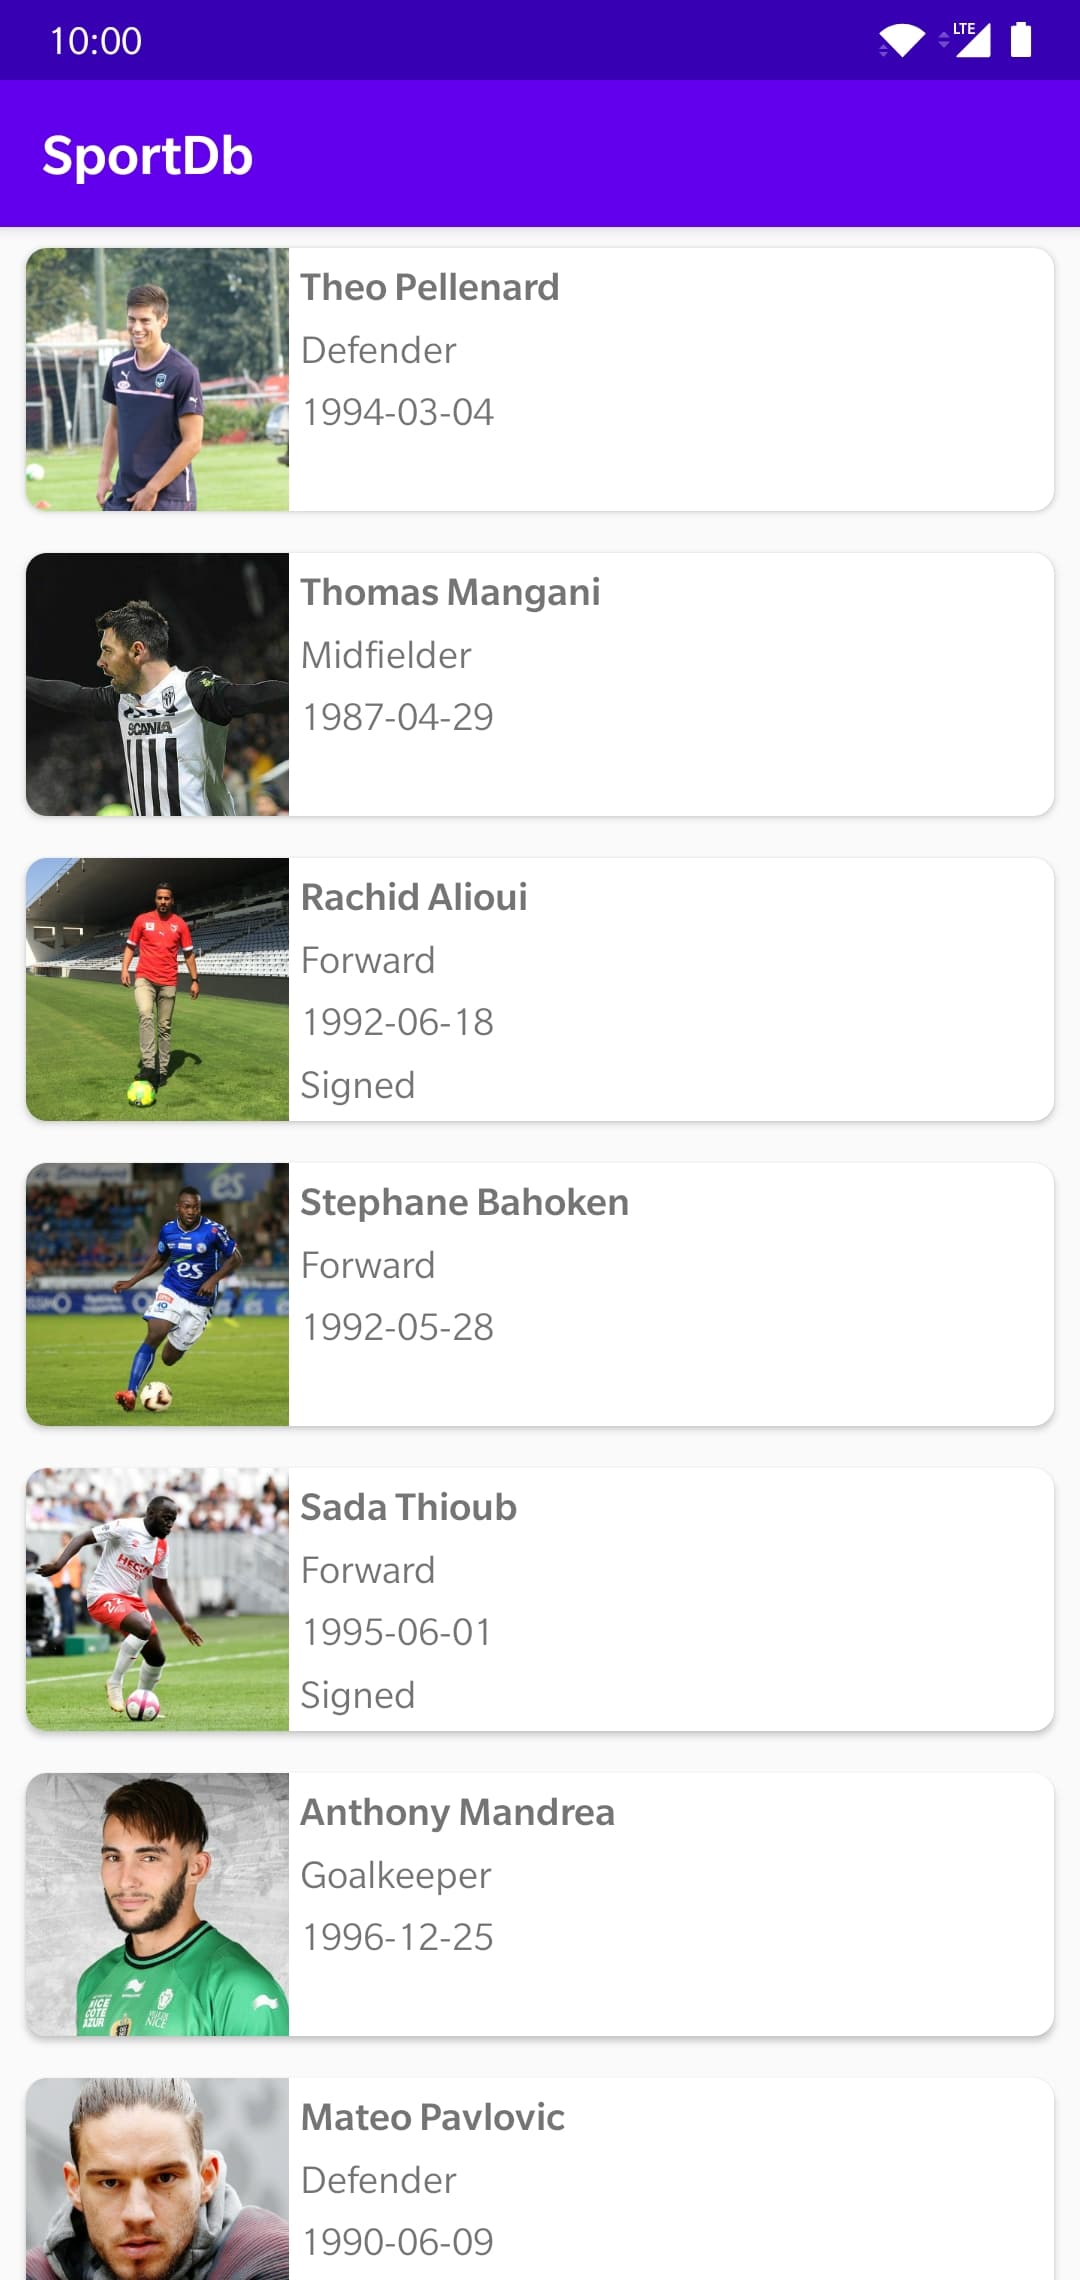
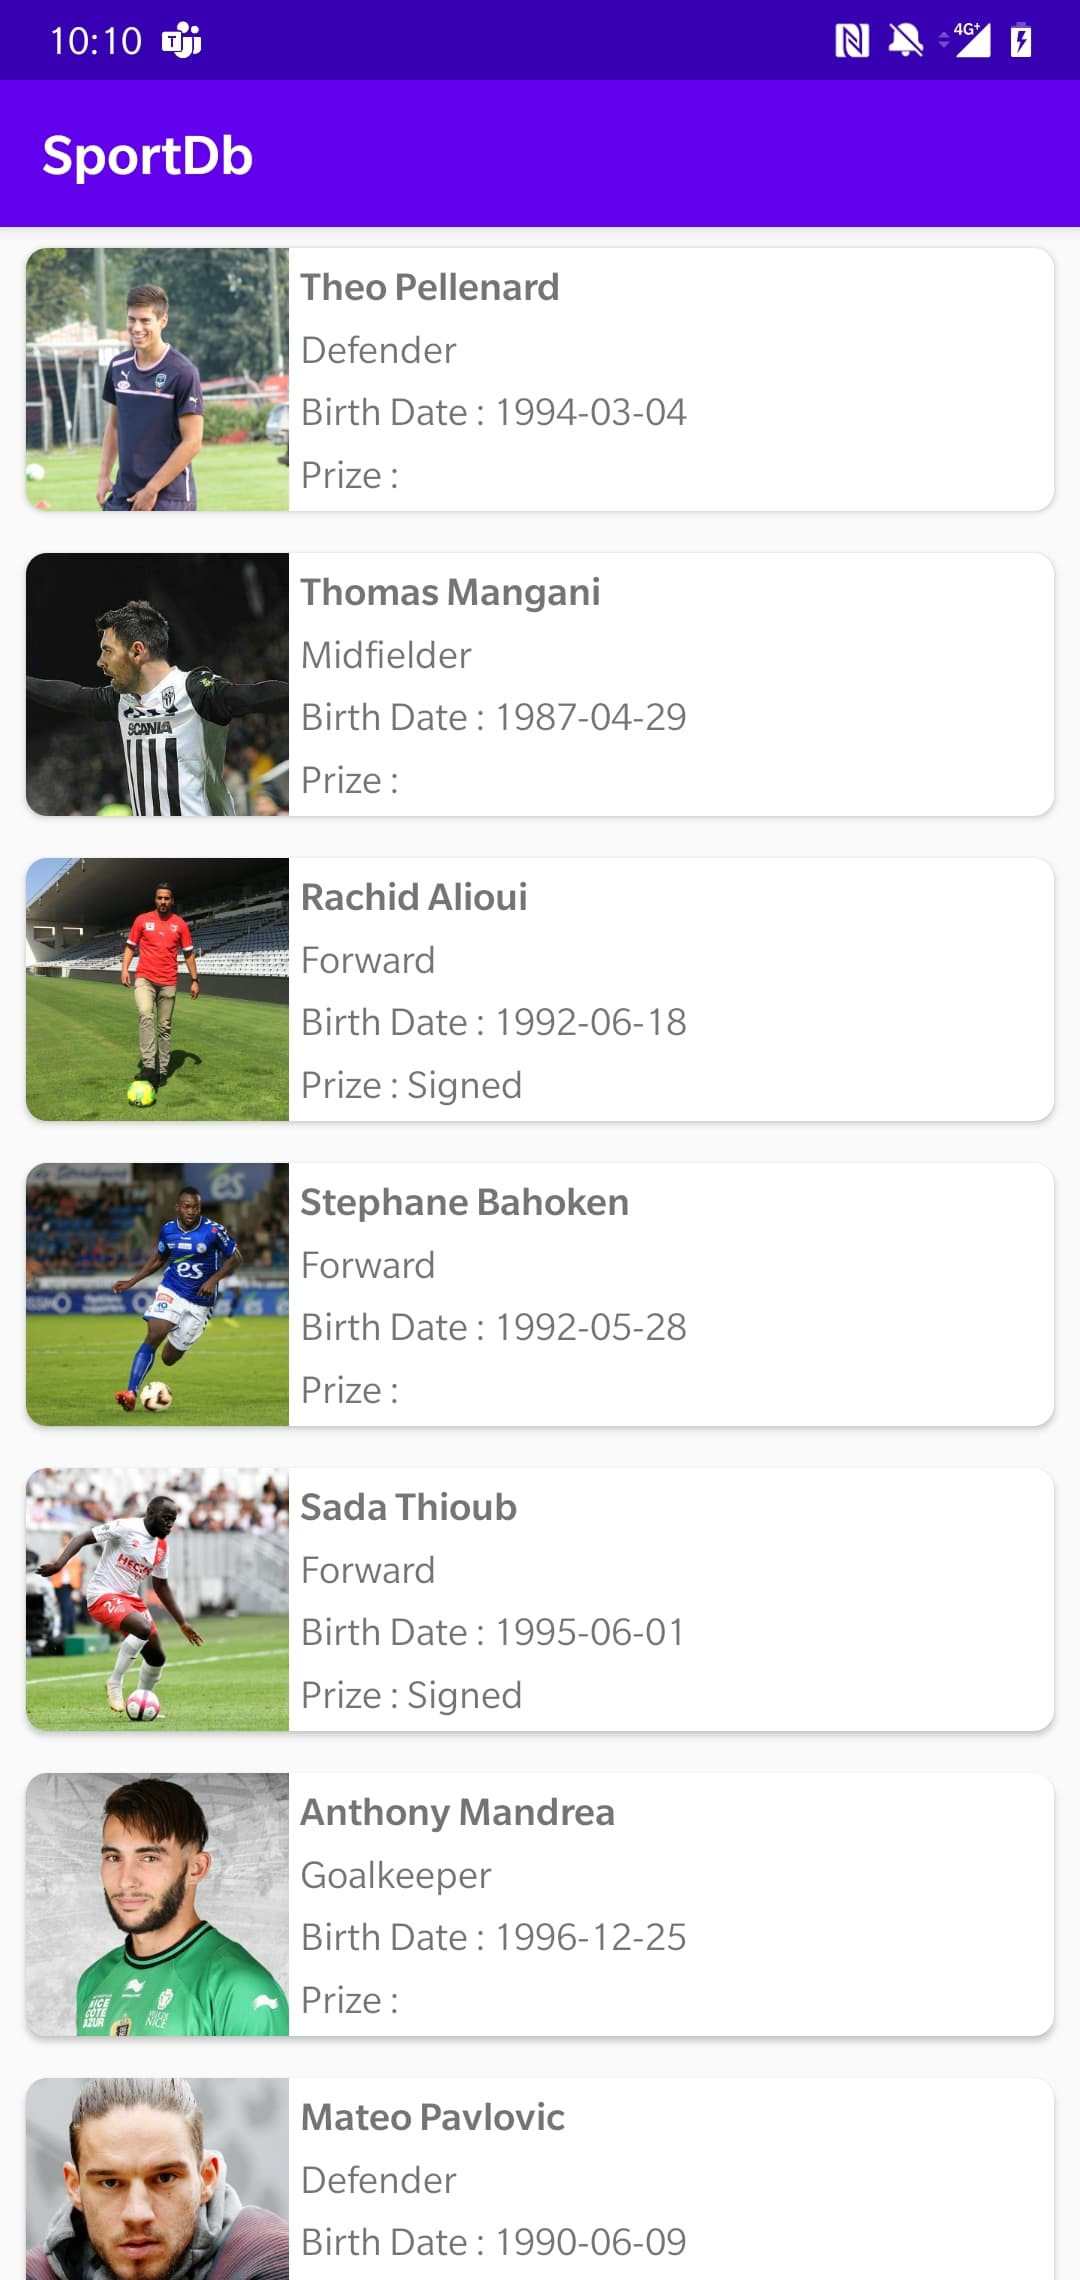
Update wordings

diff --git a/app/src/main/java/com/etienne/vincent/sportdb/presentation/players/PlayersAdapter.kt b/app/src/main/java/com/etienne/vincent/sportdb/presentation/players/PlayersAdapter.kt
@@ -27,7 +27,7 @@ class PlayersAdapter() : RecyclerView.Adapter<PlayersAdapter.ViewHolder>() {
     override fun onCreateViewHolder(parent: ViewGroup, viewType: Int): ViewHolder {
         val inflater = LayoutInflater.from(parent.context)
         val itemView = inflater.inflate(R.layout.player_view_holder, parent, false)
-        return ViewHolder(parent.context, itemView)
+        return ViewHolder(itemView)
     }
 
     override fun getItemCount() = _data.size
@@ -39,7 +39,6 @@ class PlayersAdapter() : RecyclerView.Adapter<PlayersAdapter.ViewHolder>() {
     }
 
     class ViewHolder(
-        val context: Context,
         itemView: View
     ) : RecyclerView.ViewHolder(itemView) {
 
@@ -51,9 +50,8 @@ class PlayersAdapter() : RecyclerView.Adapter<PlayersAdapter.ViewHolder>() {
 
                 player_name.text = model.name
                 player_position.text = model.position
-                player_born_date.text = model.dateBorn
-                player_prize.text = model.signingAmount
-
+                player_born_date.text = context.getString(R.string.player_born_date, model.dateBorn)
+                player_prize.text = context.getString(R.string.player_signing_prize, model.signingAmount)
             }
         }
     }
